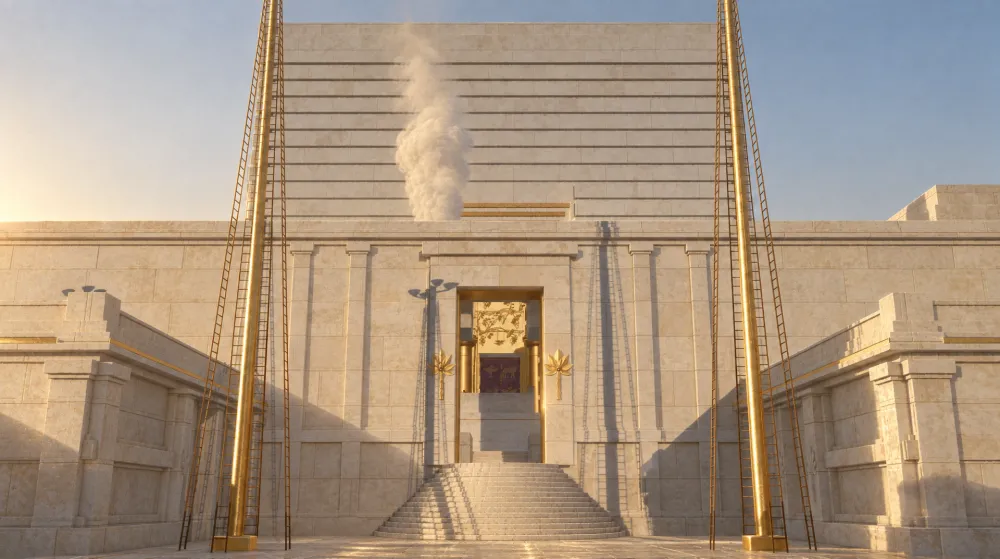
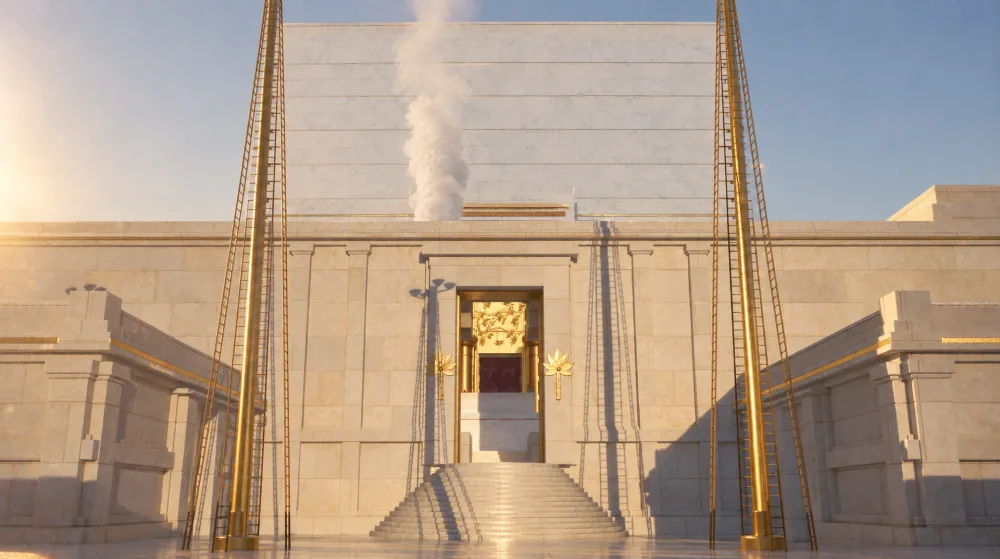
Accueil : refait les six images avec la pierre lisse et le Bayit en marbre presque blanc
Le pourtour est scié lisse, sans bossage ni marge ciselée (Melakhim I 7:9) ; le corps du
Bayit est en trois marbres froids polis (Soucca 51b, Rashi), dits au modèle comme un seul
bloc blanc lumineux à nuance à peine perceptible : nommés « blanc, vert, bleu en assises »,
ils sortaient en bandes. Les prompts retenus vivent dans site/styliser_accueil.sh, à côté
des caméras ; construire_site.sh les laisse hors de dist, --delete-excluded compris.

Claude-Session: https://claude.ai/code/session_01SAer7aFc3Cv8jYd3La4sGc

diff --git a/.claude/skills/fal-video/SKILL.md b/.claude/skills/fal-video/SKILL.md
@@ -112,6 +112,15 @@ sky, nothing later than the Second Temple ever enters the frame ». Même chose 
 ligne de crête : « nothing breaks that skyline: no tower, spire, belfry, minaret, dome
 or pointed roof ».
 
+**Une matière se décrit par ce qu'on voit à distance, pas par sa recette.** Les trois
+marbres d'Hérode dits « blanc, vert pâle, bleu pâle en assises alternées » sont sortis en
+bandes bleu-vert franches sur les six cadrages d'accueil — le modèle lit une liste de
+couleurs comme un motif à peindre. Réécrit « presque entièrement blanc, la nuance à peine
+perceptible au second regard, jamais des bandes, de loin un seul bloc blanc lumineux »,
+les six sont sortis justes. Même chose pour la pierre : « marges ciselées, usure » a rendu
+un appareil rustique là où *Melakhim I* 7:9 dit des faces sciées lisses. Les prompts
+retenus sont dans `site/styliser_accueil.sh`.
+
 **Une consigne ne nomme que ce que la caméra voit.** Décrire une foule qu'un mur
 occulte, ou des ustensiles sortis du cadre, c'est demander au modèle de les inventer —
 et il refabrique la pièce entière. Avant d'écrire le prompt d'une frame, vérifier le
